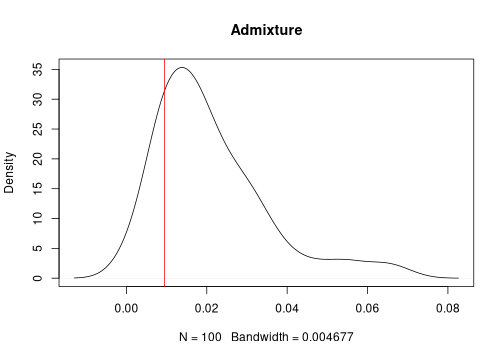
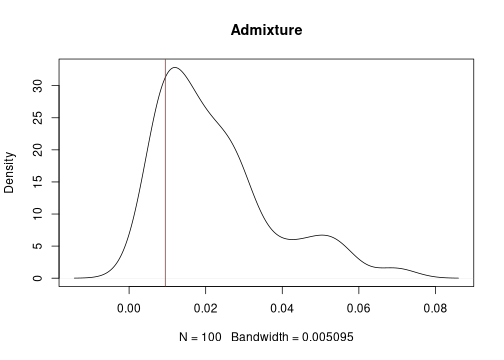
update doc

diff --git a/README.md b/README.md
@@ -13,13 +13,12 @@ an R package for refitting and spatial analysis in archeology
 [![license](https://img.shields.io/badge/License-GPL%20v3-blue.svg)](https://www.r-project.org/Licenses/GPL-3)
 [![DOI](https://zenodo.org/badge/DOI/10.5281/zenodo.4294066.svg)](https://doi.org/10.5281/zenodo.4294066)
 
-
 - [**Installation**](#installation)
 - [**Building fragmentation graphs**](#building-the-fragmentation-graph)
 - [**Edge weighting, cohesion and admixture computation**](#edge-weighting-cohesion-and-admixture-computation)
 - [**Testing layer formation hypotheses using simulated data**](#testing-layer-formation-hypotheses-using-simulated-data)
-	- [Generating artificial fragmentation graphs](#generating-artificial-fragmentation-graphs)
-	- [Testing hypotheses](#testing-hypotheses)
+  - [Generating artificial fragmentation graphs](#generating-artificial-fragmentation-graphs)
+  - [Testing hypotheses](#testing-hypotheses)
 - [**Assessing spatial unit boundaries using similarity relationships**](#assessing-spatial-unit-boundaries-using-similarity-relationships)
 - [**Characterising spatial units from their fragmentation**](#characterising-spatial-units-from-their-fragmentation)
  
@@ -43,6 +42,17 @@ BiocManager::install("RBGL")
 
 For an interactive demonstration, see also the [Shiny application](https://analytics.huma-num.fr/Sebastien.Plutniak/archeofrag/).
 
+# Community guidelines
+
+## Reporting bugs
+If you encounter a bug, please fill an [issue](https://github.com/sebastien-plutniak/archeofrag/issues) with all the details needed to reproduce it.
+
+## Suggesting changes
+Suggestions of changes to `Archeofrag` are very welcome.
+These requests may concern additional functions, changes to documentation, additional examples, new features, etc.
+They can be made by filling an [issue](https://github.com/sebastien-plutniak/archeofrag/issues) and, even better, using pull requests and the [GitHub Fork and Pull model](https://help.github.com/articles/about-pull-requests).
+
+ 
 
 # Building the fragmentation graph
 
@@ -119,11 +129,11 @@ The `frag.get.layers.pair` function has additional parameters to set the minimum
 ```r
 frag.get.layers.pair(abu.g, layer.attr="layer", sel.layers=c("1", "2"),
                      size.mini=2, mixed.components.only=TRUE)
-#> IGRAPH 1344903 UN-- 19 22 -- 
+#> IGRAPH 38f8210 UN-- 19 22 -- 
 #> + attr: frag_type (g/c), name (v/c), layer (v/c), zmin (v/n), zmax
 #> | (v/n), square (v/c), sherd.type (v/c), thickness (v/n), length (v/n),
 #> | membership (v/n), type_relation (e/c)
-#> + edges from 1344903 (vertex names):
+#> + edges from 38f8210 (vertex names):
 #>  [1] 187--188 165--195 195--196 195--197 196--198 195--204 196--204 197--204
 #>  [9] 198--204 195--25  188--250 27 --28  27 --366 27 --367 28 --367 366--367
 #> [17] 27 --371 332--371 366--371 25 --8   28 --835 835--836
@@ -135,11 +145,11 @@ Additionally, the `frag.get.layers` function can  extract a set of specified spa
 ```r
 frag.get.layers(abu.g, layer.attr="layer", sel.layers="1")
 #> $`1`
-#> IGRAPH 1fae2e5 UN-- 23 18 -- 
+#> IGRAPH fbabfbf UN-- 23 18 -- 
 #> + attr: frag_type (g/c), name (v/c), layer (v/c), zmin (v/n), zmax
 #> | (v/n), square (v/c), sherd.type (v/c), thickness (v/n), length (v/n),
 #> | type_relation (e/c)
-#> + edges from 1fae2e5 (vertex names):
+#> + edges from fbabfbf (vertex names):
 #>  [1] 123--124  187--188  195--196  195--197  196--198  195--204  196--204 
 #>  [8] 197--204  198--204  195--25   301--302  313--314  392--408  435--441 
 #> [15] 477--478  25 --8    435--9999 441--9999
@@ -360,13 +370,13 @@ The `frag.simul.compare` function takes an observed fragmentation graph, generat
 compare.res <- frag.simul.compare(abu.g12, layer.attr="layer",
                                   iter=30, summarise=FALSE)
 head(compare.res$h1.data)
-#>   edges weightsum   balance disturbance   admixture  cohesion1 cohesion2
-#> 1    54  231.5081 0.3194444  0.07407407 0.016074908 0.26926112 0.7146640
-#> 2    54  209.1486 0.2916667  0.09259259 0.032394597 0.18075372 0.7868517
-#> 3    54  222.4764 0.3333333  0.11111111 0.037372696 0.23945941 0.7231679
-#> 4    56  282.6536 0.3194444  0.07142857 0.013756701 0.14563562 0.8406077
-#> 5    56  285.1884 0.3472222  0.05357143 0.007465715 0.24291055 0.7496237
-#> 6    62  374.4856 0.3333333  0.08064516 0.016374816 0.09018144 0.8934437
+#>   edges weightsum   balance disturbance   admixture cohesion1 cohesion2
+#> 1    54  230.6982 0.2916667  0.09259259 0.024153166 0.1613814 0.8144654
+#> 2    54  226.6407 0.3611111  0.07407407 0.016336900 0.3343392 0.6493239
+#> 3    55  216.1251 0.3611111  0.12727273 0.051774593 0.3203684 0.6278570
+#> 4    56  244.6575 0.3055556  0.07142857 0.028070991 0.2790250 0.6929041
+#> 5    52  205.1168 0.3194444  0.05769231 0.009622899 0.3047193 0.6856578
+#> 6    53  211.1024 0.3055556  0.07547170 0.017233568 0.3316336 0.6511328
 ```
 
 For each of these parameters, the `frag.simul.summarise` function facilitates the comparison between empirical observed values and simulated values generated for H1 and H2.
@@ -378,11 +388,11 @@ frag.simul.summarise(abu.g12, layer.attr="layer",
                      compare.res$h1.data,
                      compare.res$h2.data)
 #>             H1 != H2? p.value Obs. value/H1 Obs. value/H2
-#> edges           FALSE    0.53         lower         lower
-#> weightsum       FALSE    0.56        within        within
-#> balance         FALSE    0.26        within        within
-#> disturbance     FALSE    0.46         lower         lower
-#> admixture       FALSE    0.44         lower        within
+#> edges           FALSE    0.88         lower         lower
+#> weightsum       FALSE    0.67         lower         lower
+#> balance         FALSE    0.36        within        within
+#> disturbance      TRUE       0         lower         lower
+#> admixture        TRUE    0.01         lower        within
 #> cohesion1        TRUE       0        higher        within
 #> cohesion2        TRUE       0         lower        within
 ```
@@ -490,8 +500,8 @@ rbind(
   "unit1" = frag.cycles(simul.g1, kmax=5),
   "unit2" = frag.cycles(simul.g2, kmax=5))
 #>       3-cycles 4-cycles 5-cycles
-#> unit1       11        5        3
-#> unit2        8        3        0
+#> unit1        7        2        1
+#> unit2       17        7        2
 ```
 
  
@@ -502,11 +512,11 @@ If the `cumulative` parameter is set to `TRUE`, the function returns the cumulat
 
 ```r
 frag.path.lengths(simul.g1)
-#> [1] 32 10
+#> [1] 29 11  1
 frag.path.lengths(simul.g2)
-#> [1] 36 21  3
+#> [1] 42 18  1
 frag.path.lengths(simul.g2, cumulative=T)
-#> [1] 1.00000000 0.58333333 0.08333333
+#> [1] 1.00000000 0.42857143 0.02380952
 ```
 
 In a graph, the shortest path between two vertices is the path including the least number of edges. The diameter of a graph is its longest shortest path.
@@ -515,11 +525,11 @@ The `frag.diameters` function calculates the diameter of each component of the g
 
 ```r
 frag.diameters(simul.g1)
-#> 1 2 
-#> 6 4
+#> 1 2 3 
+#> 5 4 1
 frag.diameters(simul.g2)
 #> 1 2 3 
-#> 2 6 2
+#> 4 5 1
 ```
 
 

diff --git a/archeofrag-paper.md b/archeofrag-paper.md
@@ -76,8 +76,18 @@ It comes with an example data set [@Plutniak2021aburefits] containing refitting 
 `Archeofrag` is intended to be used with two sources of data, namely the user’s empirical data and artificially generated data using its simulation function. User’s data must be split into different tables:
 
 * **Fragment table**: each line contains the unique identifier of a fragment, its spatial unit, and optionally additional information.
-* **Connection table**: an edge list with the identifiers of two connected fragments by line.
+* **Connection table**: an edge list with the identifiers of two connected fragments by line (e.g., \autoref{tab:record}).
 * **Similarity table** (optionally): each line includes the unique identifier of a fragment and the identifier of a set of similar fragments it belongs to.
+
+
+| id | fragment 1 | fragment 2 |
+|----|------------|------------|
+| 1  | A          | B          |
+| 2  | C          | D          |
+| 3  | D          | E          |
+| 4  | E          | C          |
+
+: Recording of connection relationships between fragments (illustrated by the examples given in  \autoref{fig:scheme}).\label{tab:record}
 
 The package includes functions to generate summary statistics about the fragmentation graph and extract specific sub-graphs (by layer, by component size, etc.).
 
@@ -98,19 +108,38 @@ Results for cohesion measurements range between [0;1], with values towards 0 for
 
 ## Spatial unit-related statistics: fragmentation patterns, technology, human behaviour
 The second aim of the TSAR method implemented in `Archeofrag` is to characterise spatial units based on the topological properties of the connection relationships between the fragments they contain.
- Several functions are provided for this purpose, selected for their relevance in the archaeological context, namely cycle count, path length, and component diameter (a component is related to an initial object).
+Several functions are provided for this purpose, selected for their relevance in the archaeological context, namely cycle count, path length, and component diameter (a component is related to an initial object).
 
 The archaeological interpretation of the numerical values depends on the type of object (lithic, pottery, etc.) and their completeness or incompleteness. These values can suggest specific behaviours related to the production or use of the objects (intentional breaking), and post-depositional processes (natural breaking, scattering). This aspect of the TSAR method will be further developed in the future.
  
 ## Simulation of fragmentation graphs
-The simulation function generates connected fragments scattered within one or two spatial units (see @Plutniak2021jas for details). It can be set with multiple parameters (number of initial objects/fragments, number of fragments, number of relationships, number of fragments and relationships, the balance between layers, etc.). It can also be constrained to generate only planar graphs since this corresponds to the fragmentation in some specific archaeological contexts (e.g., pottery with simple shapes, small sets of refits). However, the run time of this function is doubled when this constraint is used.
+The simulation function generates connected fragments scattered within one or two spatial units (see @Plutniak2021jas for details). It can be set with multiple parameters:
+
+* Number of initial objects or fragments.
+* Final number of fragments.
+* Final number of connection relationships.
+* Proportion of fragments in each spatial unit, before post-depositional processes.
+* Proportion of components in each spatial unit.
+* Proportion of fragments likely to move from a spatial unit to the other one.
+* Whether to only disturb the fragments from spatial unit 1 or spatial unit 2.
+* When applying fragmentation, increase the likelihood for objects with more fragments being selected.
+* Number of initial hypothetical spatial unit.
+* Whether generating only planar graphs.
+
+Generating only planar graphs is interesting since this corresponds to the fragmentation observed in some specific archaeological contexts (e.g., pottery with simple shapes, small sets of refits). However, the run time of this function is doubled when this constraint is used.
+
+# Resources and examples
+`Archeofrag` is available on [CRAN](https://cran.r-project.org/package=archeofrag) and the code of the development version is available on [Github](https://github.com/sebastien-plutniak/archeofrag/). 
+A [Vignette](https://cran.r-project.org/web/packages/archeofrag/vignettes/archeofrag-vignette.html) and a [Shiny application](https://analytics.huma-num.fr/Sebastien.Plutniak/archeofrag/) demonstrate the package.
+
+At the time of this submission, `Archeofrag` has been applied to two archaeological sites:
+
+* Liang Abu, Indonesia (@Plutniak2021jas, @PlutniakEtal2022jica)
+* Taï cave, France (@CaroEtal2022)
 
 
 # Acknowledgements
 I thank Luce Prignano, Claire Manen, Joséphine Caro, and Oliver Nakoinz for their valuable comments during the development of this package, which was finalised at the *Institut für Ur- und Frühgeschichte of Kiel*, with the support of a “Short-term research grant” from the *Deutscher Akademischer Austausch Dienst* (DAAD).
-
-# Resources
-`Archeofrag` is available on [CRAN](https://cran.r-project.org/package=archeofrag) and the code of the development version is available on  [Github](https://github.com/sebastien-plutniak/archeofrag/). A [Shiny application](https://analytics.huma-num.fr/Sebastien.Plutniak/archeofrag/)  demonstrates the package.
 
 
 # References
